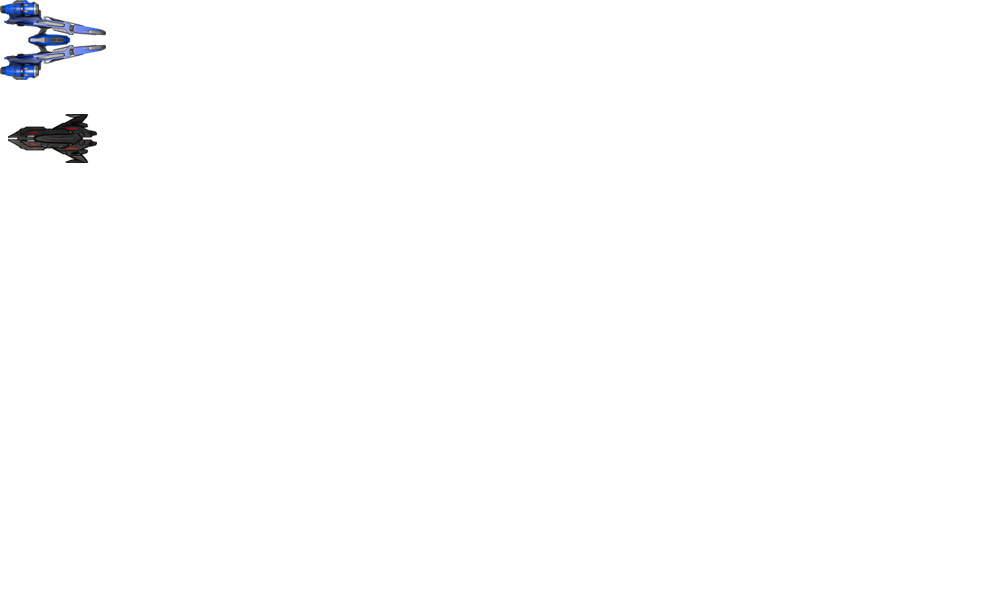
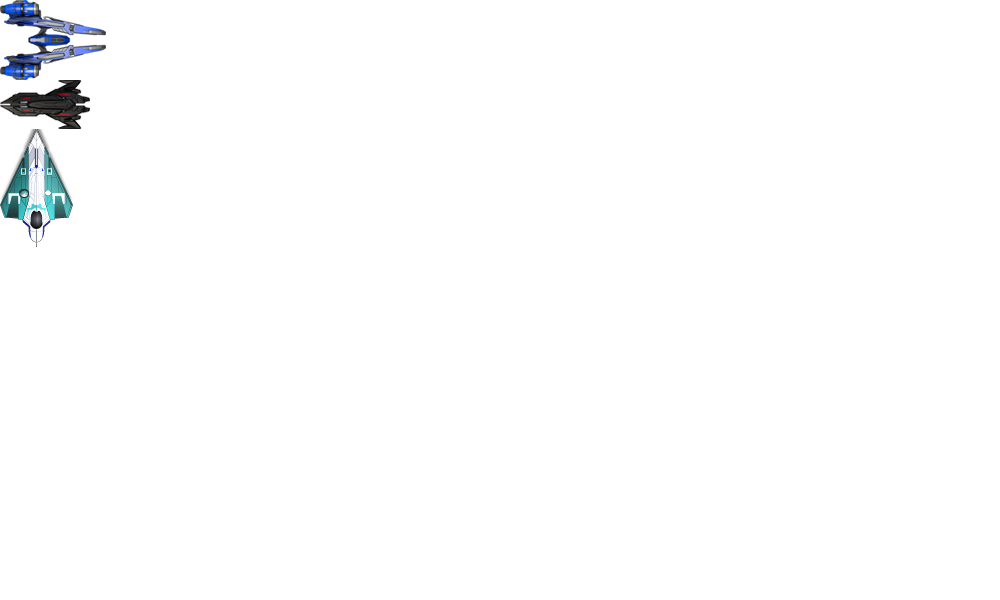
Add files via upload

Changed region(s): [[0.0, 0.12, 0.093, 0.39]]

diff --git a/java.js b/java.js
@@ -5,16 +5,14 @@ var ctxMap;
 
 var pl;
 var ctxPl;
-
 var healthPl;
 
 var en;
 var ctxEn;
-
 var healthEn;
 
-var stats;
-var ctxStats;
+var bot;
+var ctxBot;
 
 var drawBtn;
 var clearBtn;
@@ -30,6 +28,7 @@ tiles.src = "img/ob.png";
 
 var player;
 var enemy;
+var bots = []; 
 
 var isPlaying;
 
@@ -56,6 +55,9 @@ function init()//ИНИЦИАЛИЗАЦИЯ
     two = document.getElementById("two");
     ctxTwo = two.getContext("2d");
     
+    bot = document.getElementById("bot");
+    ctxBot = bot.getContext("2d");
+    
     map.width  = gameWidth;
     map.height = gameHeigth;
     
@@ -70,6 +72,9 @@ function init()//ИНИЦИАЛИЗАЦИЯ
     
     two.width   = gameWidth;
     two.height  = gameHeigth;
+    
+    bot.width   = gameWidth;
+    bot.height  = gameHeigth;
     
     ctxOne.fillStyle = "blue";
     ctxOne.font = "bold 15pt Arial";
@@ -112,7 +117,8 @@ function Player()
     this.drawY = 190;
     this.width = 110;
     this.height = 80;
-    this.speed = 7;
+    
+    this.speed = 10;
     
     //Key
     this.isUp    = false; 
@@ -184,14 +190,14 @@ function info1()//ИМЯ
[1 lines of base64/hex data omitted]
 function Enemy()
 {
-    this.srcX   = 7;
-    this.srcY   = 115;
+    this.srcX   = 0;
+    this.srcY   = 80;
     this.drawX  = 1110;
     this.drawY  = 124;
     this.width  = 100;
-    this.height = 50;
+    this.height = 49;
     
-    this.speed = 7; 
+    this.speed = 10; 
 
     //Key
     this.isUp    = false; 
@@ -258,17 +264,70 @@ function info2()//ИМЯ
 }
 ///////////////////////////////////////////////////////////////////////////
 
[1 lines of base64/hex data omitted]
+function Bot()
+{
+    this.srcX = 0;
+    this.srcY = 130;
+    this.drawX = Math.floor(Math.random() * gameWidth);
+    this.drawY = Math.floor(Math.random() * gameHeigth) + gameHeigth;
+    this.width = 125;
+    this.height = 90;
+    
+    this.speed = 20;
+}
+
+Bot.prototype.draw = function()
+{
+    ctxBot.drawImage (tiles, this.srcX, this.srcY, this.width, this.height, this.drawX, this.drawY, this.width, this.height);
+}
+
+Bot.prototype.update = function()
+{
+    this.drawY -= this.speed;
+    
+    if(this.drawY < -100) 
+    {
+        this.drawY = Math.floor (Math.random() * gameHeigth) + gameHeigth; 
+        this.drawX = Math.floor (Math.random() * gameWidth);
+    }
+}
+   function clearctxBot()
+{
+    ctxBot.clearRect(0, 0, gameWidth, gameHeigth);
+}
+
+function spawnBot(count)//+BOTS
+{
+    for(var i = 0; i < count; i++)
+        {
+            bots[i] = new Bot();
+        }
+}
+///////////////////////////////////////////////////////////////////////////
 
 function update()//ОБНОВЛЕНИЕ
 {
     player.update();
     enemy.update();
+    
+    for(var i = 0; i < bots.length; i++)
+    {
+        bots[i].draw();         
+    }
 }
     
 function draw()//ВЫЗОВ
 {
     player.draw();
     enemy.draw();
+    
+    clearctxBot();
+    
+    for(var i = 0; i < bots.length; i++)
+    {
+        bots[i].update();         
+    }
 }
 
 ///////////////////////ЦИКЛ////////////////////////////////////////////////
@@ -286,6 +345,8 @@ function startLoop()
 {
     isPlaying = true;   
     loop();
+    
+    spawnBot(4)
 }
 
 function stopLoop()

diff --git a/index.html b/index.html
@@ -24,6 +24,8 @@
         <canvas id="map" width="1200" height="650"></canvas>
         <canvas id="player"></canvas>        
         <canvas id="enemy"></canvas>  
+        <canvas id="bot"></canvas>
+        
         <canvas id="one"></canvas>      
         <canvas id="two"></canvas>      
         

diff --git a/style.css b/style.css
@@ -7,7 +7,7 @@ canvas{
     margin: 30px auto 0px;
 }
 
-#player, #enemy, #one, #two{
+#player, #enemy, #one, #two, #bot{
     display: block;
     margin: -650px auto 0px;;
 }
